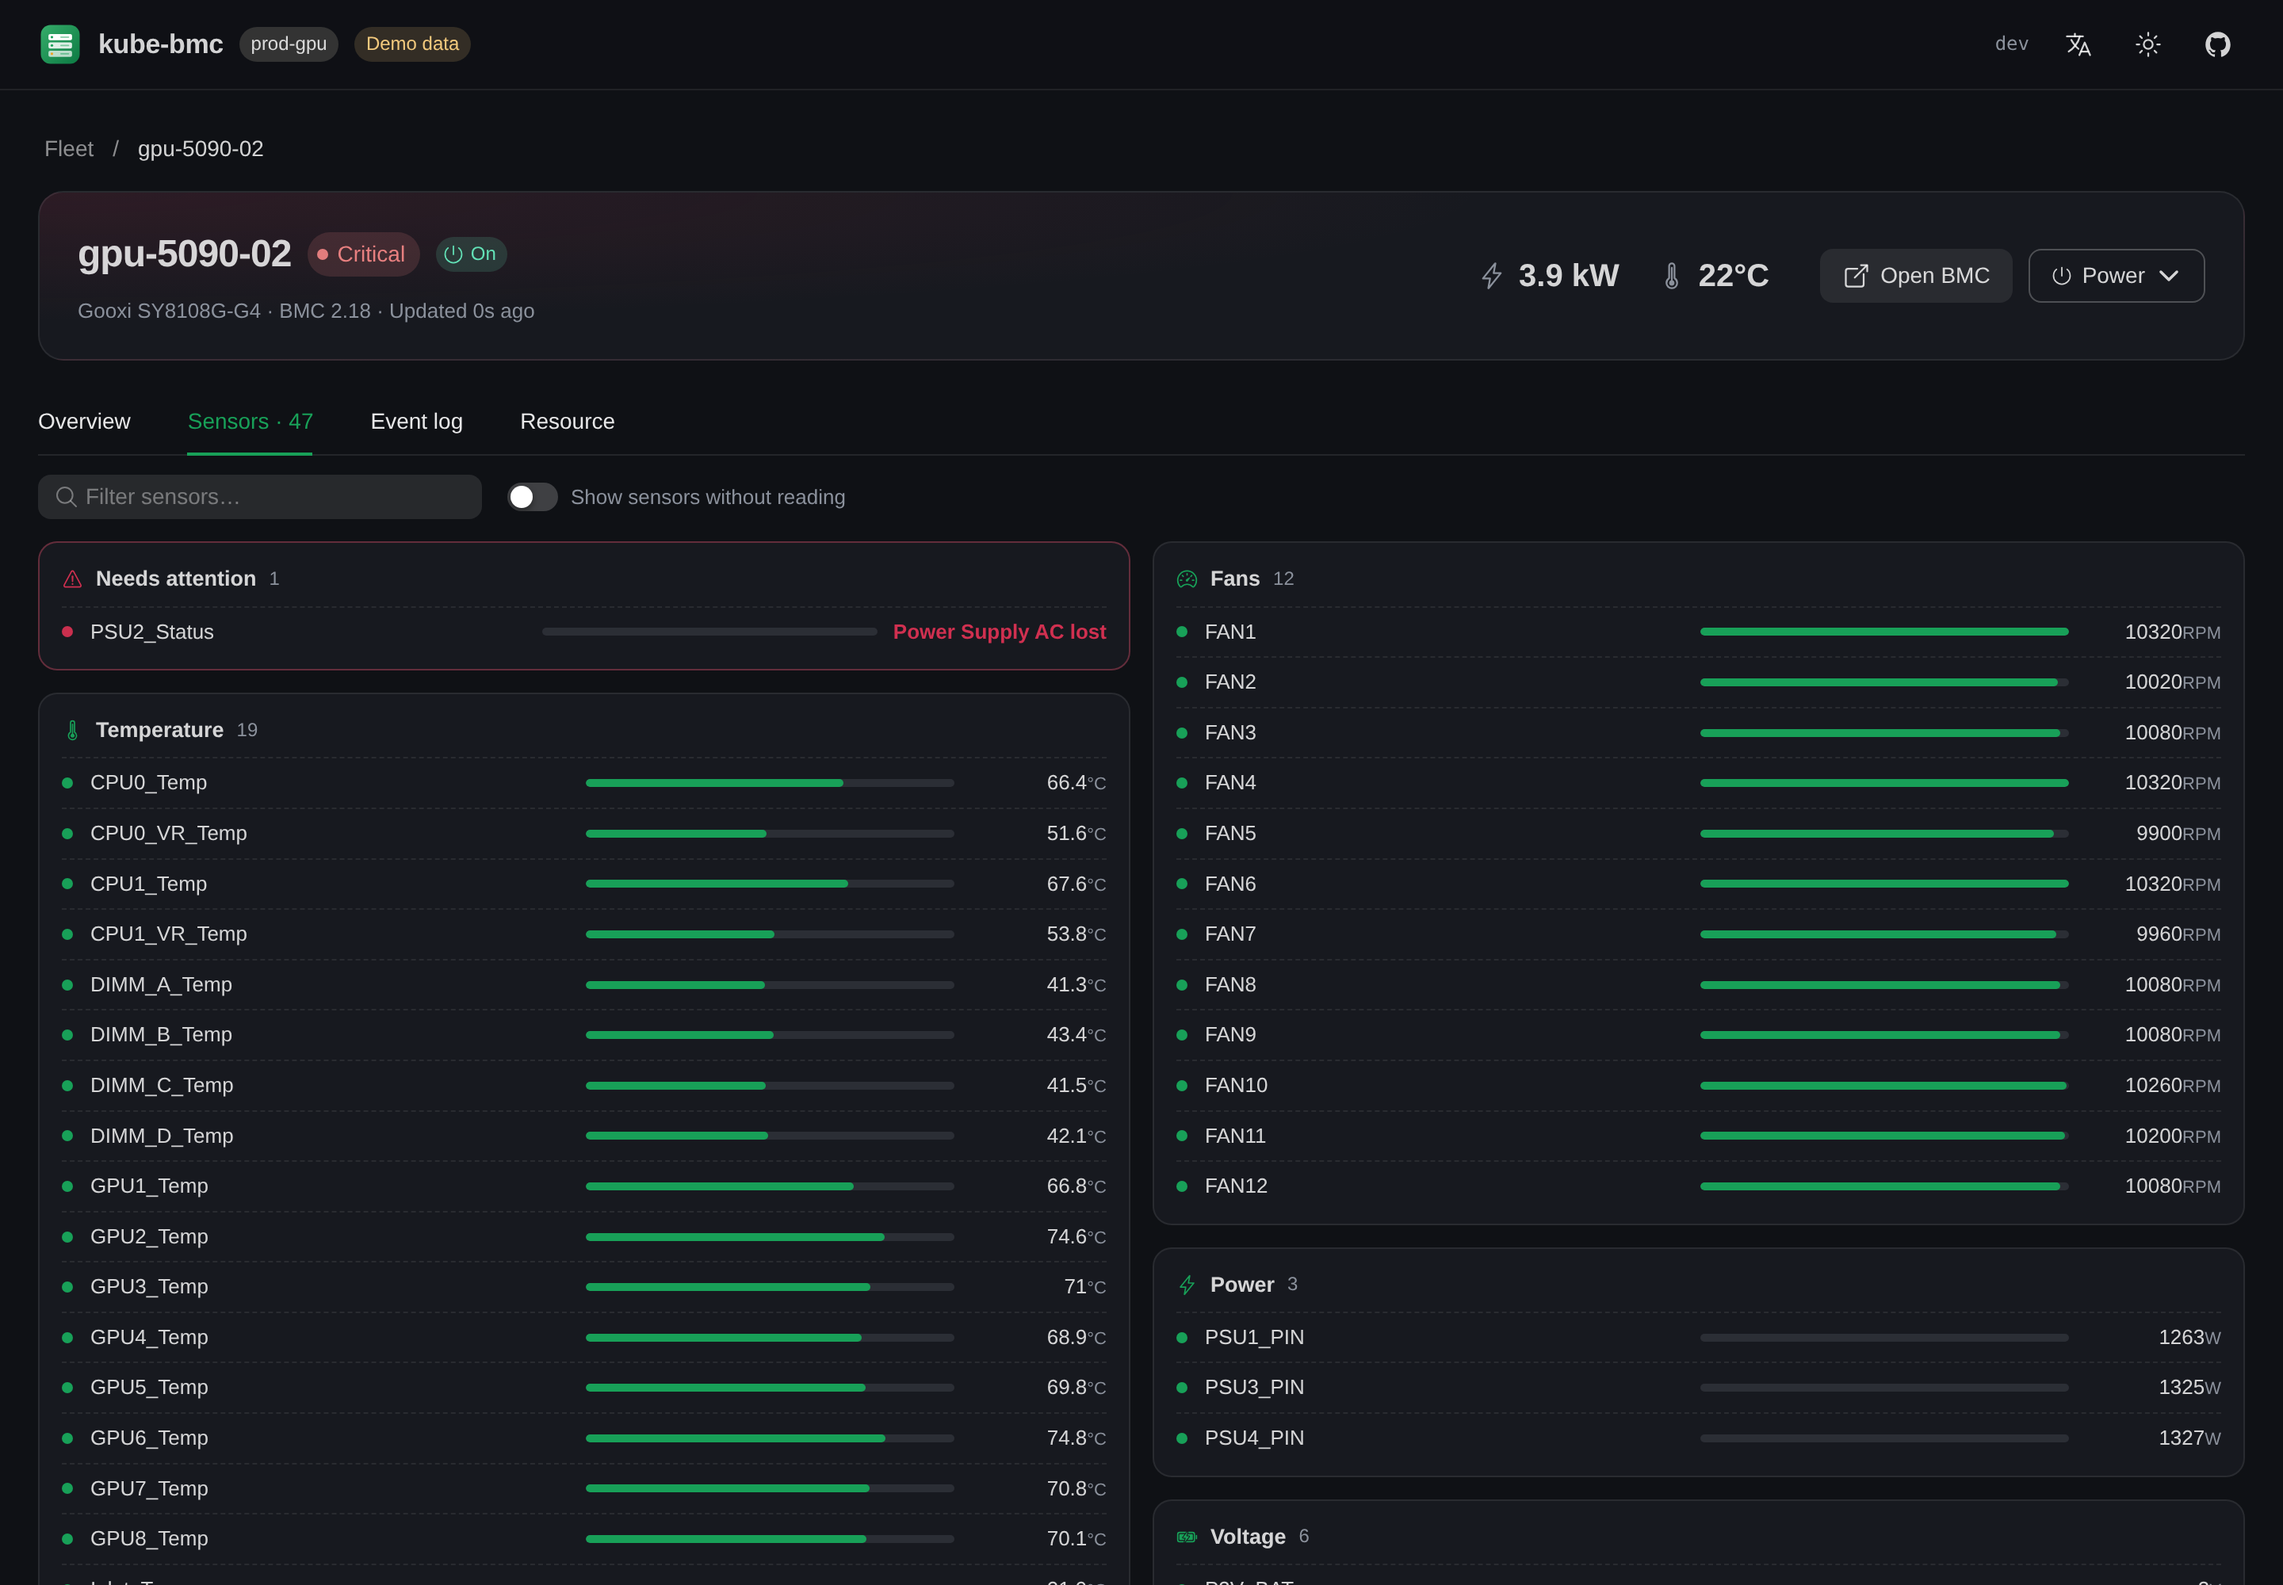
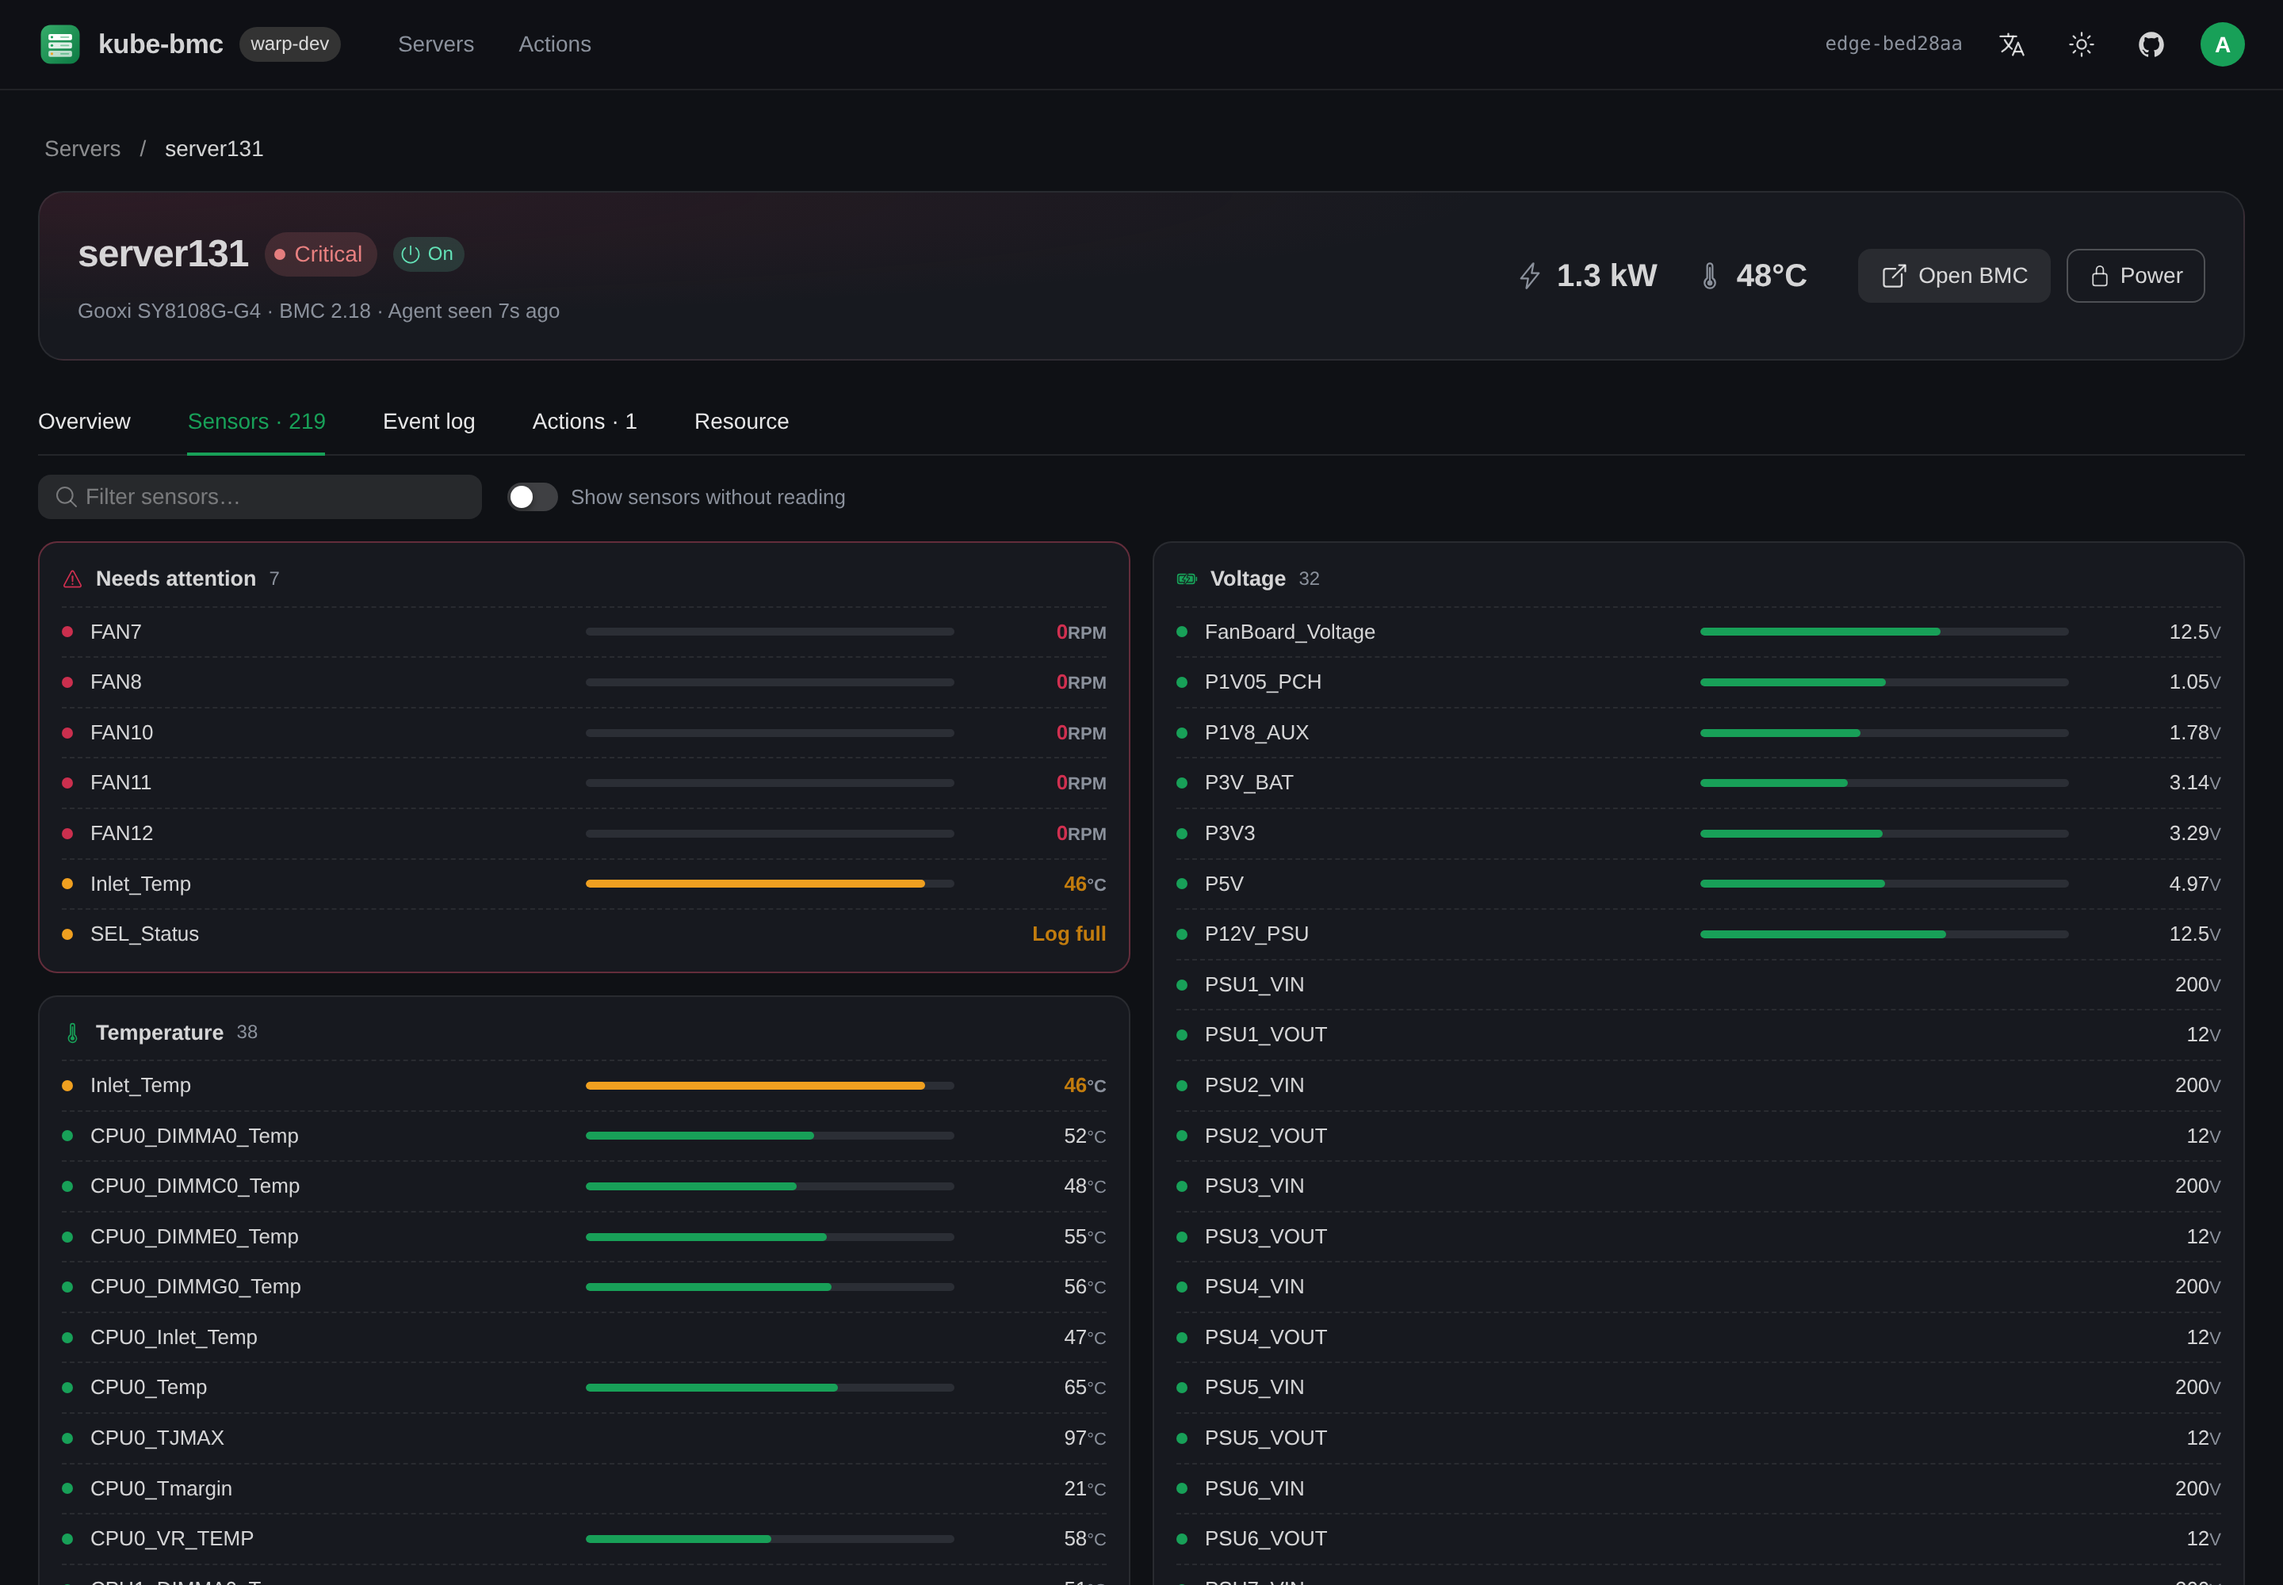
docs: screenshots from a real deployment; changelog for v0.1.0
The screenshots show real servers with addresses and serial numbers
replaced.

diff --git a/README.md b/README.md
@@ -27,6 +27,18 @@
 
 ![Dashboard](docs/images/fleet.png)
 
+<details>
+<summary>More screenshots</summary>
+
+| Server details | Sensors |
+|---|---|
+| ![Server details](docs/images/server.png) | ![Sensors](docs/images/sensors.png) |
+| **System event log** (decoded failed BMC logins) | **Power actions** |
+| ![Event log](docs/images/events.png) | ![Power actions](docs/images/actions.png) |
+
+Screenshots show real servers; addresses and serial numbers are replaced.
+</details>
+
 ## Overview
 
 kube-bmc runs an agent on every node that reads the local BMC through the in-band IPMI

diff --git a/CHANGELOG.md b/CHANGELOG.md
@@ -3,7 +3,7 @@
 All notable changes to this project are documented in this file. The format follows
 [Keep a Changelog](https://keepachangelog.com/en/1.1.0/).
 
-## [Unreleased]
+## [0.1.0] - 2026-10-05
 
 ### Added
 - `BMC` resource (`bmc.kube-bmc.io/v1alpha1`), owned by its Node, with inventory, health,
